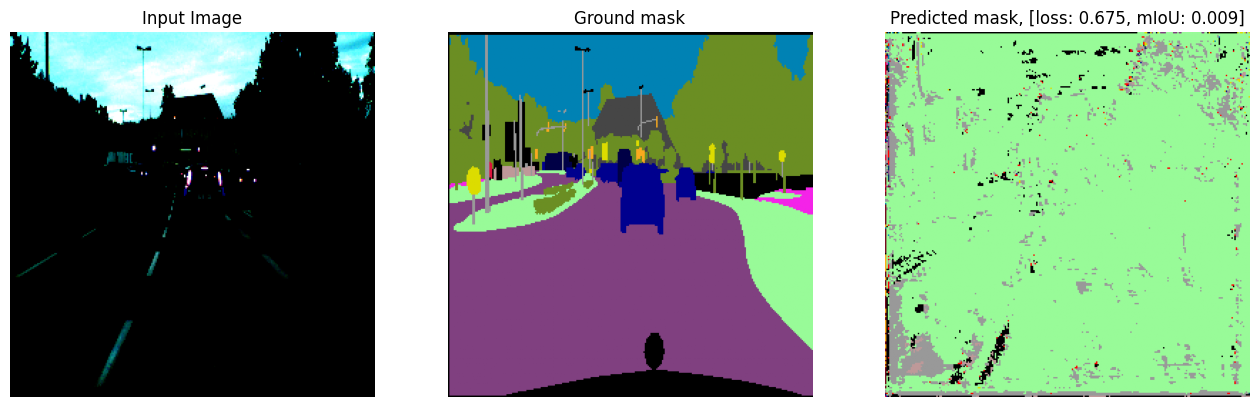
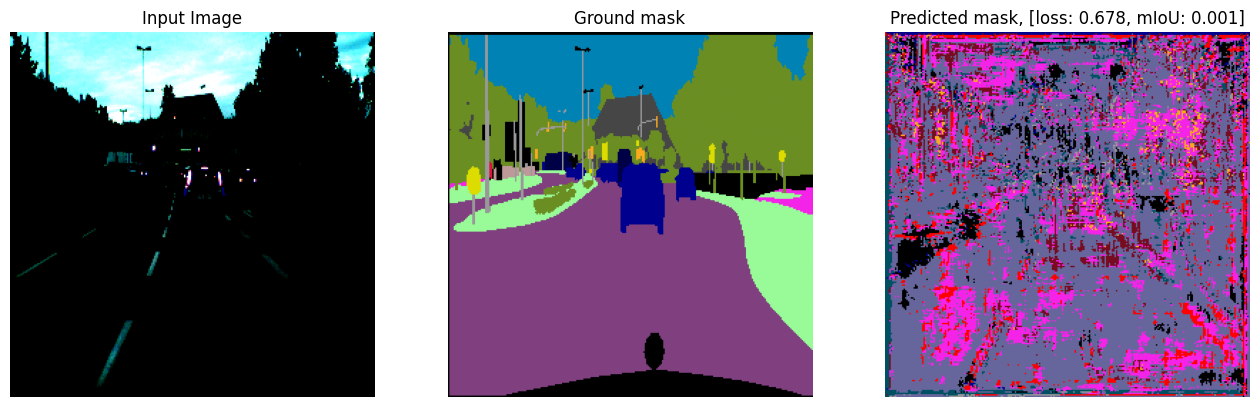
feat: add unetplusplus model

Changed region(s): [[0.681, 0.0295, 1.0, 0.973]]

diff --git a/tdt17_project/train.py b/tdt17_project/train.py
@@ -19,7 +19,12 @@ from tdt17_project.data import (
     get_image_target_transform,
     get_val_test_transform,
 )
-from tdt17_project.model import get_unet_model, load_state_dict, save_state_dict
+from tdt17_project.model import (
+    get_unet_model,
+    get_unetpluplus_model,
+    load_state_dict,
+    save_state_dict,
+)
 from tdt17_project.utils import CityscapesContants, decode_segmap, encode_segmap
 
 DATASET_BASE_PATH = "/cluster/projects/vc/data/ad/open/Cityscapes"
@@ -319,6 +324,11 @@ def init_wandb(epochs: int, batch_size: int, learning_rate: float):
     default=None,
     help="Path to weights to resume training on. If none, starts from scratch.",
 )
+@click.option(
+    "--network-type",
+    default="unet",
+    help="unet or unetplusplus",
+)
 def main(
     dataset_path: str,
     epochs: int,
@@ -328,6 +338,7 @@ def main(
     device: str,
     weights_folder: str,
     resume_from_weights: str,
+    network_type: str,
 ):
     print(
         f"""Args:
@@ -339,6 +350,7 @@ def main(
         device={device},
         weights_folder={weights_folder},
         resume_from_weights={resume_from_weights}
+        network_type={network_type}
         """
     )
     init_wandb(epochs, batch_size, learning_rate)
@@ -373,7 +385,11 @@ def main(
 
     # model = UNetImpl(n_channels=3, n_classes=len(train_data.classes))
     num_classes = len(CityscapesContants.VALID_CLASSES)
-    model = get_unet_model(in_channels=3, out_channels=num_classes)
+    model = (
+        get_unet_model(in_channels=3, out_channels=num_classes)
+        if network_type == "unet"
+        else get_unetpluplus_model(in_channels=3, out_channels=num_classes)
+    )
     model.to(device)
 
     loss_criterion = DiceLoss(mode="multiclass")

diff --git a/tdt17_project/model.py b/tdt17_project/model.py
@@ -2,7 +2,7 @@ from typing import TypedDict
 
 import torch
 import torch.nn as nn
-from segmentation_models_pytorch import Unet
+from segmentation_models_pytorch import Unet, UnetPlusPlus
 from torch.optim import Optimizer
 
 
@@ -10,6 +10,16 @@ def get_unet_model(in_channels: int, out_channels: int):
     return Unet(
         encoder_name="resnet101",
         encoder_weights="imagenet",
+        in_channels=in_channels,
+        classes=out_channels,
+    )
+
+
+def get_unetpluplus_model(in_channels: int, out_channels: int):
+    return UnetPlusPlus(
+        encoder_name="resnet101",
+        encoder_weights="imagenet",
+        decoder_attention_type="scse",
         in_channels=in_channels,
         classes=out_channels,
     )
